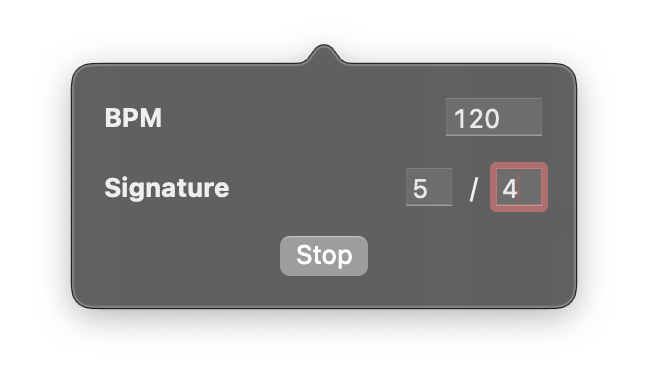
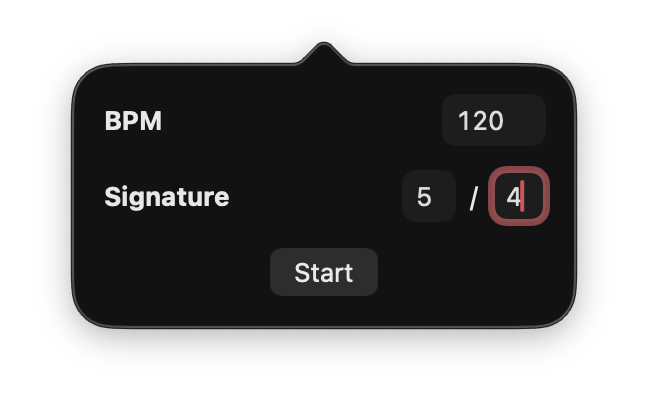
update screenshot to Tahoe

diff --git a/SwiftTempo/MetronomeEngine.swift b/SwiftTempo/MetronomeEngine.swift
@@ -94,8 +94,8 @@ final class MetronomeEngine: ObservableObject {
     }
 
     private func playOneUnit() {
-        let isBeat = (beatIndexInBar == 0)
-        let buffer = isBeat ? accentBuffer! : normalBuffer!
+        let isAccent = (beatIndexInBar == 0)
+        let buffer = isAccent ? accentBuffer! : normalBuffer!
         player.scheduleBuffer(buffer, at: nil, options: .interruptsAtLoop, completionHandler: nil)
         if !player.isPlaying {
             player.play()

diff --git a/SwiftTempoUITests/SwiftTempoUITestsLaunchTests.swift b/SwiftTempoUITests/SwiftTempoUITestsLaunchTests.swift
@@ -2,7 +2,7 @@
 //  SwiftTempoUITestsLaunchTests.swift
 //  SwiftTempoUITests
 //
-//  Created by Clarke on 2025/8/28.
+//  Created by ongiaf on 2025/8/28.
 //
 
 import XCTest

diff --git a/SwiftTempoUITests/SwiftTempoUITests.swift b/SwiftTempoUITests/SwiftTempoUITests.swift
@@ -2,7 +2,7 @@
 //  SwiftTempoUITests.swift
 //  SwiftTempoUITests
 //
-//  Created by Clarke on 2025/8/28.
+//  Created by ongiaf on 2025/8/28.
 //
 
 import XCTest

diff --git a/SwiftTempoTests/SwiftTempoTests.swift b/SwiftTempoTests/SwiftTempoTests.swift
@@ -2,7 +2,7 @@
 //  SwiftTempoTests.swift
 //  SwiftTempoTests
 //
-//  Created by Clarke on 2025/8/28.
+//  Created by ongiaf on 2025/8/28.
 //
 
 import Testing
